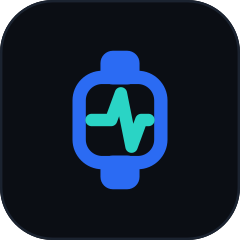
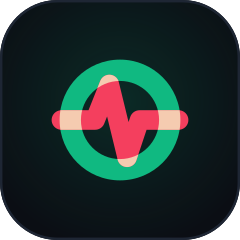
feat: fourteen skills, the new marks, and a link to skills.dbhq.uk
The table listed nine and there are fourteen. It also still named
devskills, which was split on 17 September, and outlook-graph, which was
renamed the same day - both as repository links that only worked because
GitHub redirects a renamed repo.

The tiles are the new overprint marks, regenerated from
brand/_build/skill_brand.py rather than hand-placed. PNG because
raw.githubusercontent.com serves SVG as text/plain, so the image proxy
will not render one in a README.

Two links were pointing at things that had moved: the heliograph toolkit is
in heliograph-io now, and heliograph.dbhq.uk 301s to the commercial
product's marketing site, so the documentation link is docs.heliograph.io.
A reader following the old one landed on a sales page for the paid service.

diff --git a/profile/README.md b/profile/README.md
@@ -67,11 +67,11 @@ A toolkit rather than a single tool, and the agent skill is one part of it:
 - **MCP server** - the same commands as typed tools, for an agent running the investigation itself
 - **Agent skill** - drives the CLI from Claude Code or Codex, and installs from the marketplace below
 
-[**dbhq-uk/heliograph**](https://github.com/dbhq-uk/heliograph) &middot; [heliograph.dbhq.uk](https://heliograph.dbhq.uk) &middot; [heliograph-relay](https://github.com/dbhq-uk/heliograph-relay) &middot; MIT
+[**heliograph-io/heliograph**](https://github.com/heliograph-io/heliograph) &middot; [docs.heliograph.io](https://docs.heliograph.io) &middot; [heliograph-relay](https://github.com/heliograph-io/heliograph-relay) &middot; MIT
 
 ### Agent Skills
 
-Built from real delivery work, given away. Add the DBHQ marketplace, then install:
+Fourteen of them, built from real delivery work and given away. Every one is documented at **[skills.dbhq.uk](https://skills.dbhq.uk)**. Add the DBHQ marketplace once, then install any of them:
 
 ```
 /plugin marketplace add dbhq-uk/marketplace
@@ -83,8 +83,8 @@ Built from real delivery work, given away. Add the DBHQ marketplace, then instal
   </thead>
   <tbody>
   <tr>
-    <td align="center" width="64"><a href="https://github.com/dbhq-uk/outlook-graph-skill"><img src="https://raw.githubusercontent.com/dbhq-uk/.github/main/profile/assets/skill-outlook-graph-240.png" alt="" width="40"></a></td>
-    <td nowrap><a href="https://github.com/dbhq-uk/outlook-graph-skill"><strong>outlook-graph</strong></a></td>
+    <td align="center" width="64"><a href="https://github.com/dbhq-uk/outlook-skill"><img src="https://raw.githubusercontent.com/dbhq-uk/.github/main/profile/assets/skill-outlook-240.png" alt="" width="40"></a></td>
+    <td nowrap><a href="https://github.com/dbhq-uk/outlook-skill"><strong>outlook</strong></a></td>
     <td>Microsoft 365 mail and calendar from your agent: inbox, send, drafts, attachments, availability - plus PST archives extracted to markdown</td>
   </tr>
   <tr>
@@ -123,14 +123,39 @@ Built from real delivery work, given away. Add the DBHQ marketplace, then instal
     <td>Generate and edit images with OpenAI's GPT Image 2. Iterate on drafts at a fraction of a penny, then pay once for the one you approved</td>
   </tr>
   <tr>
-    <td align="center" width="64"><a href="https://github.com/dbhq-uk/devskills"><img src="https://raw.githubusercontent.com/dbhq-uk/.github/main/profile/assets/skill-devskills-240.png" alt="" width="40"></a></td>
-    <td nowrap><a href="https://github.com/dbhq-uk/devskills"><strong>devskills</strong></a></td>
-    <td>Which branches are finished and safe to delete, computed rather than inferred from a commit count a squash-merge makes meaningless - plus Jira issues created and read</td>
+    <td align="center" width="64"><a href="https://github.com/dbhq-uk/gitview-skill"><img src="https://raw.githubusercontent.com/dbhq-uk/.github/main/profile/assets/skill-gitview-240.png" alt="" width="40"></a></td>
+    <td nowrap><a href="https://github.com/dbhq-uk/gitview-skill"><strong>gitview</strong></a></td>
+    <td>Which branches are finished and safe to delete, computed by test-merging rather than inferred from a commit count a squash-merge makes meaningless</td>
+  </tr>
+  <tr>
+    <td align="center" width="64"><a href="https://github.com/dbhq-uk/atlassian-skill"><img src="https://raw.githubusercontent.com/dbhq-uk/.github/main/profile/assets/skill-atlassian-240.png" alt="" width="40"></a></td>
+    <td nowrap><a href="https://github.com/dbhq-uk/atlassian-skill"><strong>atlassian</strong></a></td>
+    <td>Jira issues raised and read, and Confluence pages searched, written and updated - over the REST API with an API token and no MCP server</td>
+  </tr>
+  <tr>
+    <td align="center" width="64"><a href="https://github.com/dbhq-uk/pennyblack-skill"><img src="https://raw.githubusercontent.com/dbhq-uk/.github/main/profile/assets/skill-pennyblack-240.png" alt="" width="40"></a></td>
+    <td nowrap><a href="https://github.com/dbhq-uk/pennyblack-skill"><strong>pennyblack</strong></a></td>
+    <td>Put a PDF in the post. Printed in the UK, delivered by Royal Mail, priced and previewed before it spends, with the tracking number handed back</td>
+  </tr>
+  <tr>
+    <td align="center" width="64"><a href="https://github.com/dbhq-uk/buildwork-skill"><img src="https://raw.githubusercontent.com/dbhq-uk/.github/main/profile/assets/skill-buildwork-240.png" alt="" width="40"></a></td>
+    <td nowrap><a href="https://github.com/dbhq-uk/buildwork-skill"><strong>buildwork</strong></a></td>
+    <td>Runs a repository's open issues as parallel agents - one per issue, each in its own worktree and its own pull request - then proposes a merge order. Never merges</td>
+  </tr>
+  <tr>
+    <td align="center" width="64"><a href="https://github.com/dbhq-uk/deskwork-skill"><img src="https://raw.githubusercontent.com/dbhq-uk/.github/main/profile/assets/skill-deskwork-240.png" alt="" width="40"></a></td>
+    <td nowrap><a href="https://github.com/dbhq-uk/deskwork-skill"><strong>deskwork</strong></a></td>
+    <td>Files what an agent noticed as a tracked issue, keeps the dependency graph honest, and writes a roadmap into git that you can disagree with</td>
+  </tr>
+  <tr>
+    <td align="center" width="64"><a href="https://github.com/dbhq-uk/groupwork-skill"><img src="https://raw.githubusercontent.com/dbhq-uk/.github/main/profile/assets/skill-groupwork-240.png" alt="" width="40"></a></td>
+    <td nowrap><a href="https://github.com/dbhq-uk/groupwork-skill"><strong>groupwork</strong></a></td>
+    <td>Puts a second agent on the work, as an adversary or as a partner. What each pattern is refused is enforced in code, so a citation cannot overclaim</td>
   </tr>
   </tbody>
 </table>
 
-They install from the [marketplace](https://github.com/dbhq-uk/marketplace) in one command, as does heliograph's skill - `/plugin install <name>@dbhq`.
+They install from the [marketplace](https://github.com/dbhq-uk/marketplace) in one command, as does heliograph's skill - `/plugin install <name>@dbhq`. Full documentation, and what each one deliberately does not do, is at [skills.dbhq.uk](https://skills.dbhq.uk).
 
 ### Reference implementations
 
